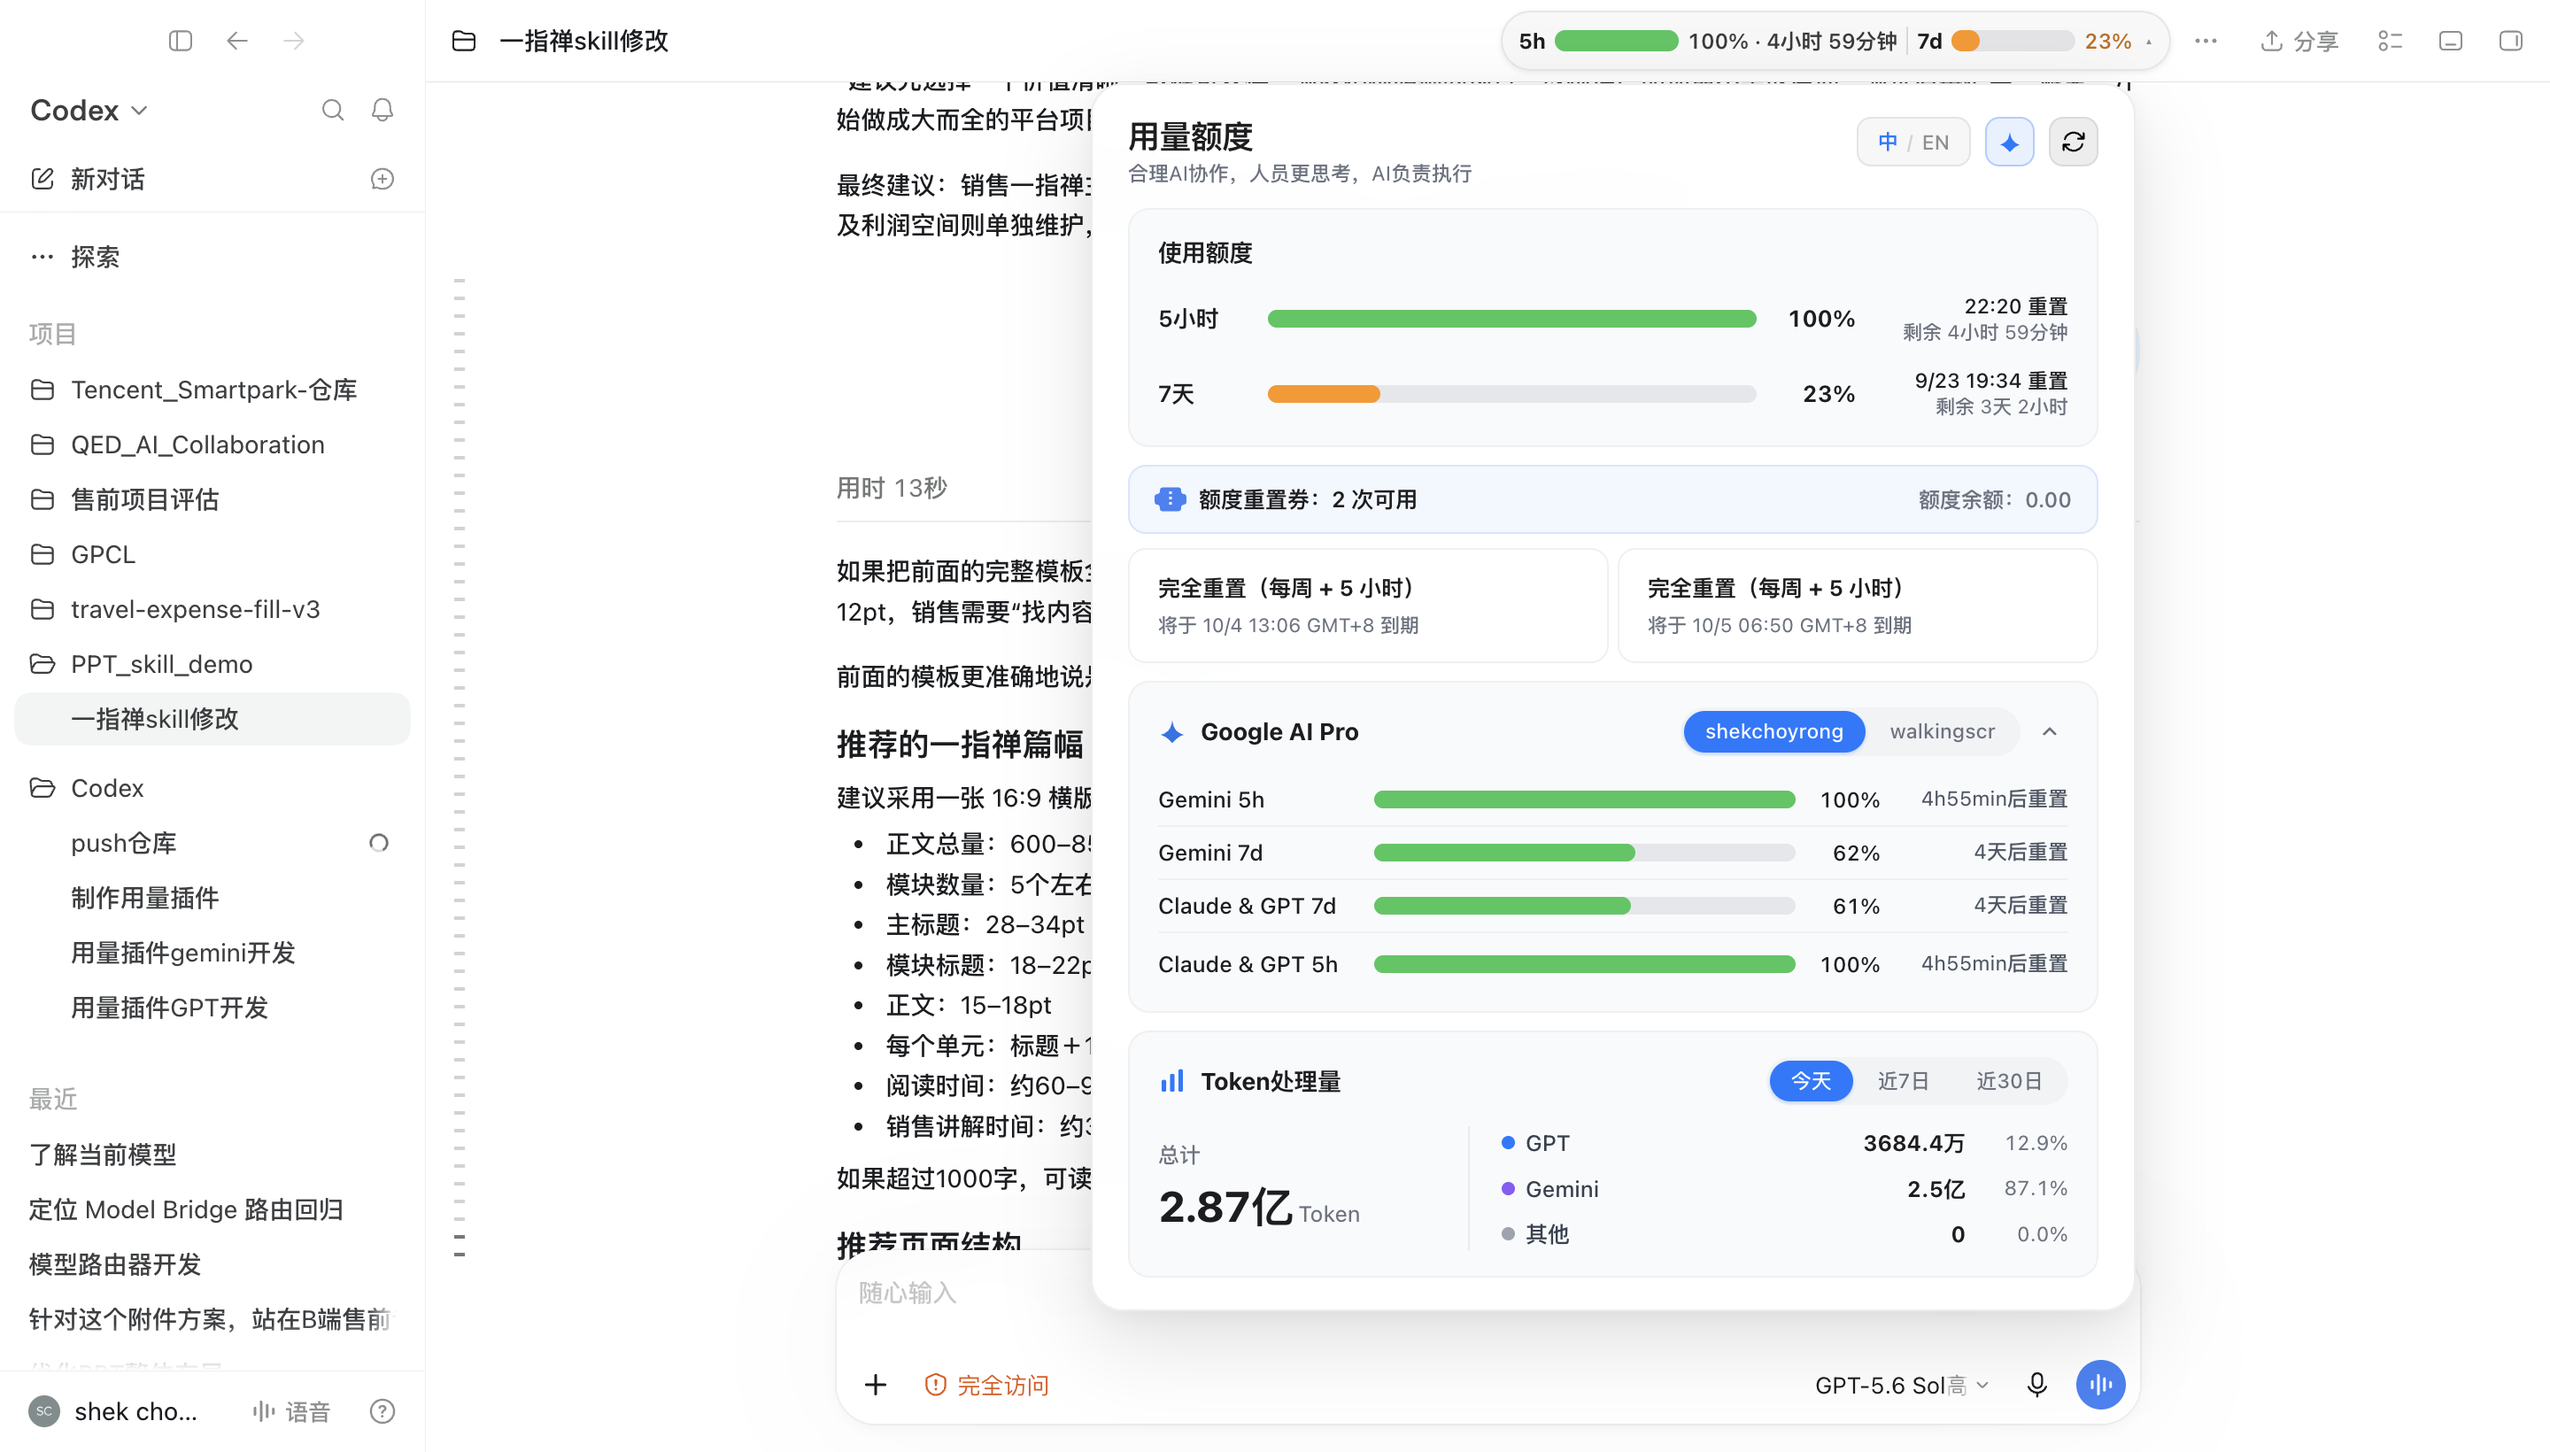
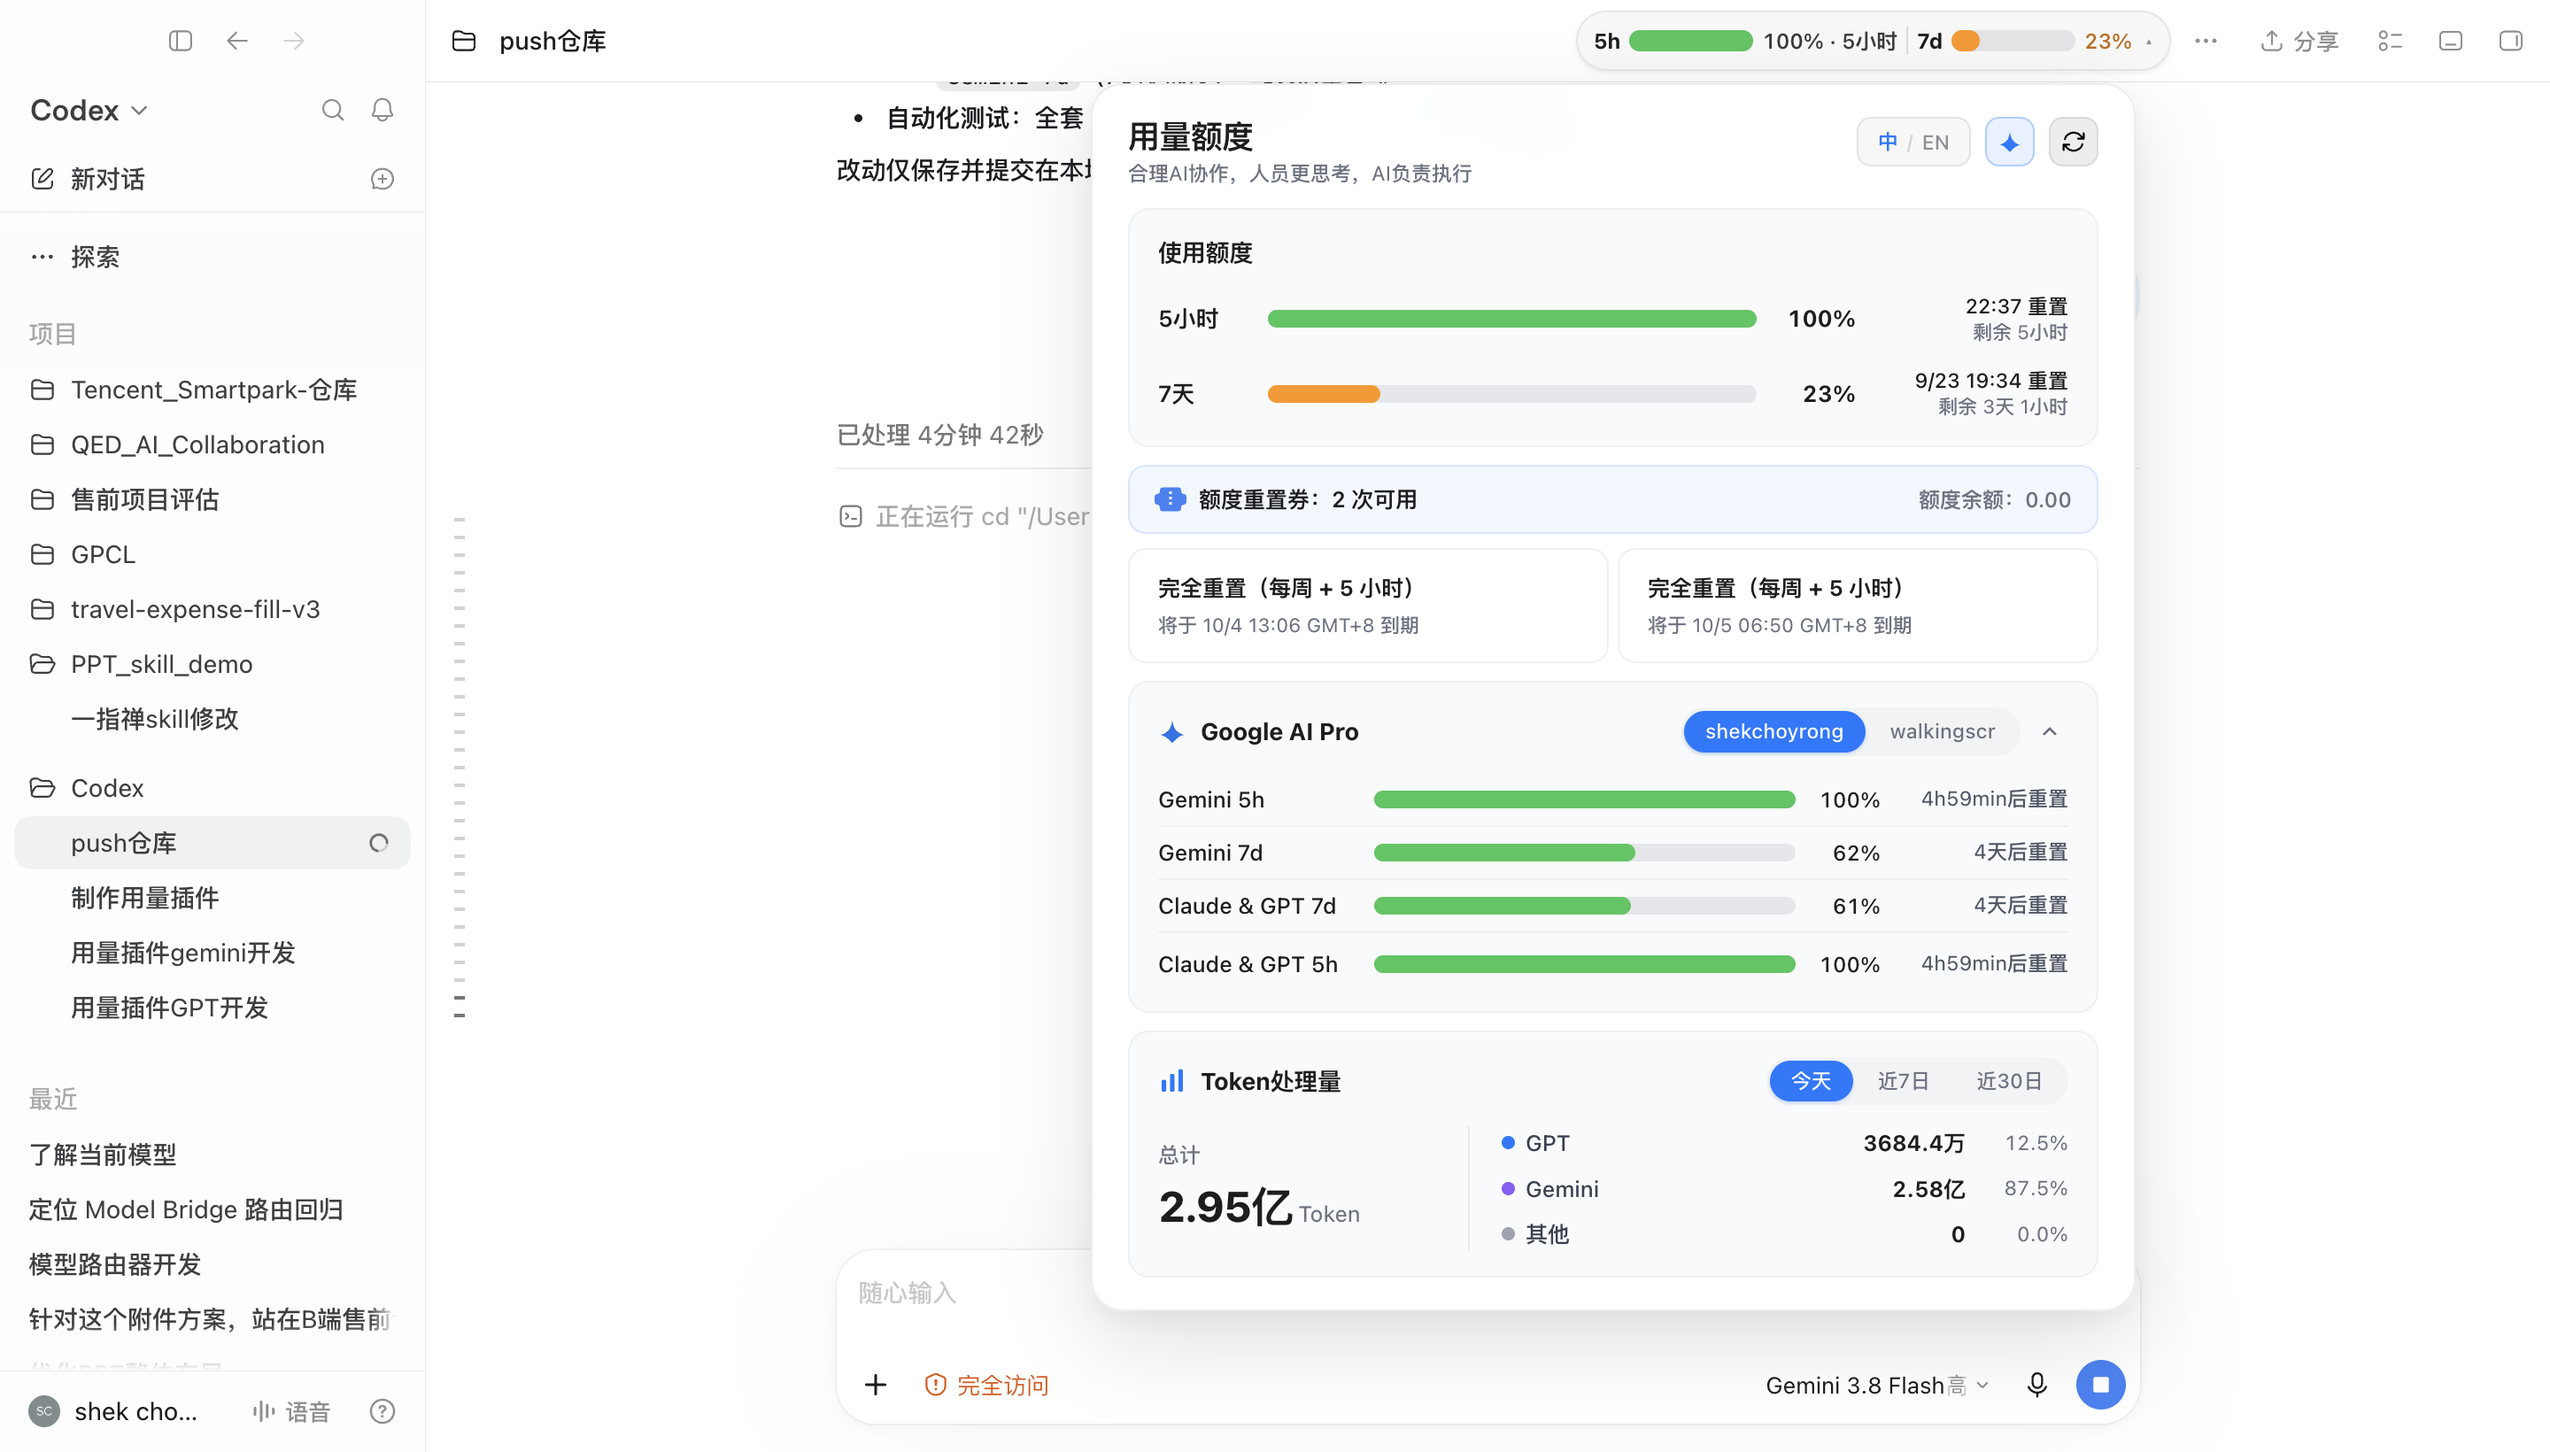
fix(gemini): implement automatic expired-quota refresh and accept background refresh commands

diff --git a/src/injected.js b/src/injected.js
@@ -6,7 +6,7 @@
 (() => {
   'use strict';
 
-  const RUNTIME_VERSION = '3.7.0';
+  const RUNTIME_VERSION = '3.8.0';
   const HOST_TAG = 'codex-usage-header-host';
   const POPOVER_CLASS = 'codex-usage-popover-v24';
   const POPOVER_ID = 'codex-usage-details-v24';
@@ -465,14 +465,27 @@
     }
   }
 
+  let lastExpiredRefresh = 0;
   function updateCountdowns() {
     if (!host || !usageState.secondary) return;
     const now = Math.floor(Date.now() / 1000);
     if (usageState.primary && usageState.primary.resetsAt > 0) {
       usageState.primary.secondsRemaining = Math.min(5 * 3600, Math.max(0, usageState.primary.resetsAt - now));
+      if (usageState.primary.resetsAt <= now && now - usageState.primary.resetsAt >= 5 && Date.now() - lastExpiredRefresh > 30000) {
+        lastExpiredRefresh = Date.now();
+        requestUsage({ manual: false });
+      }
     }
     if (usageState.secondary && usageState.secondary.resetsAt > 0) {
       usageState.secondary.secondsRemaining = Math.min(7 * 86400, Math.max(0, usageState.secondary.resetsAt - now));
+    }
+    const anti = extendedUsageState.antigravity;
+    if (settings.enableGoogleAiPro && anti && anti.rows && anti.rows.length) {
+      const expiredRow = anti.rows.find(r => !r.unavailable && r.resetTime && r.resetTime <= now && (now - r.resetTime >= 5));
+      if (expiredRow && Date.now() - lastExpiredRefresh > 30000) {
+        lastExpiredRefresh = Date.now();
+        requestUsage({ manual: false });
+      }
     }
     renderHost();
     if (popover?.classList.contains('is-visible')) renderPopover();
